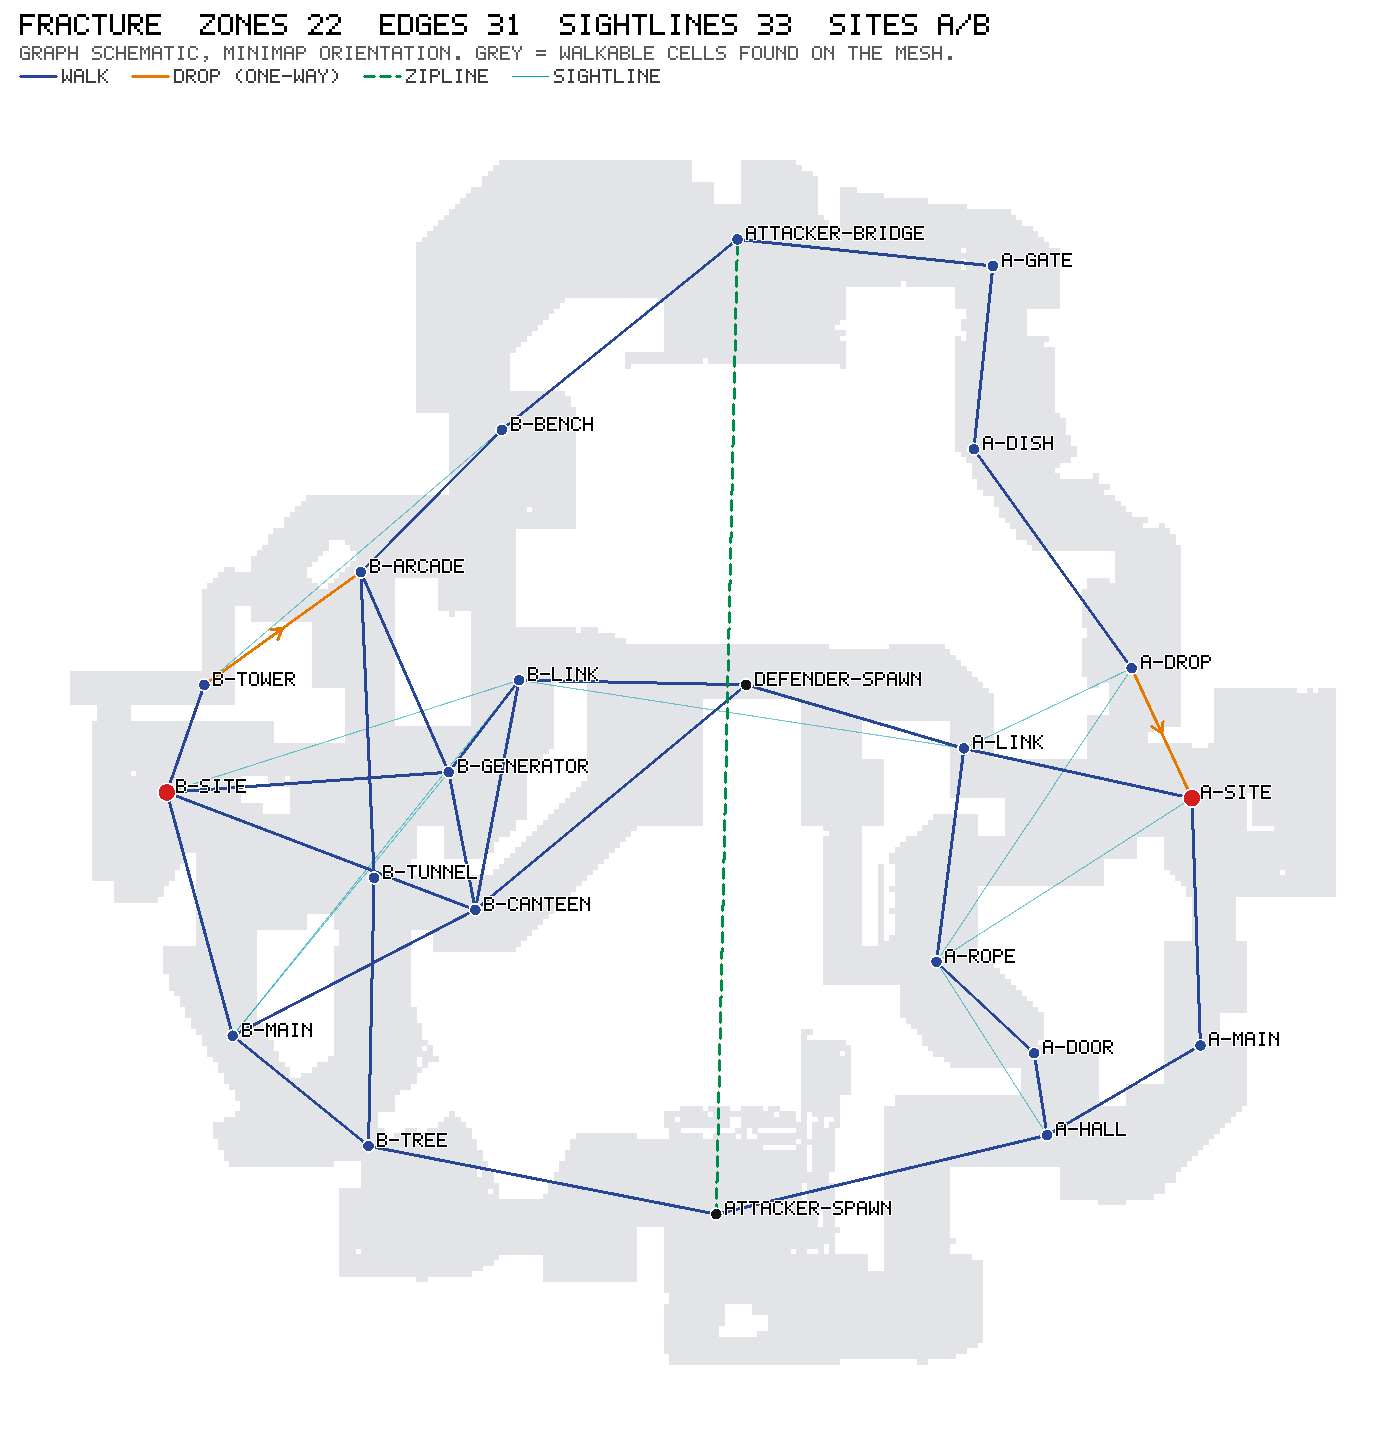
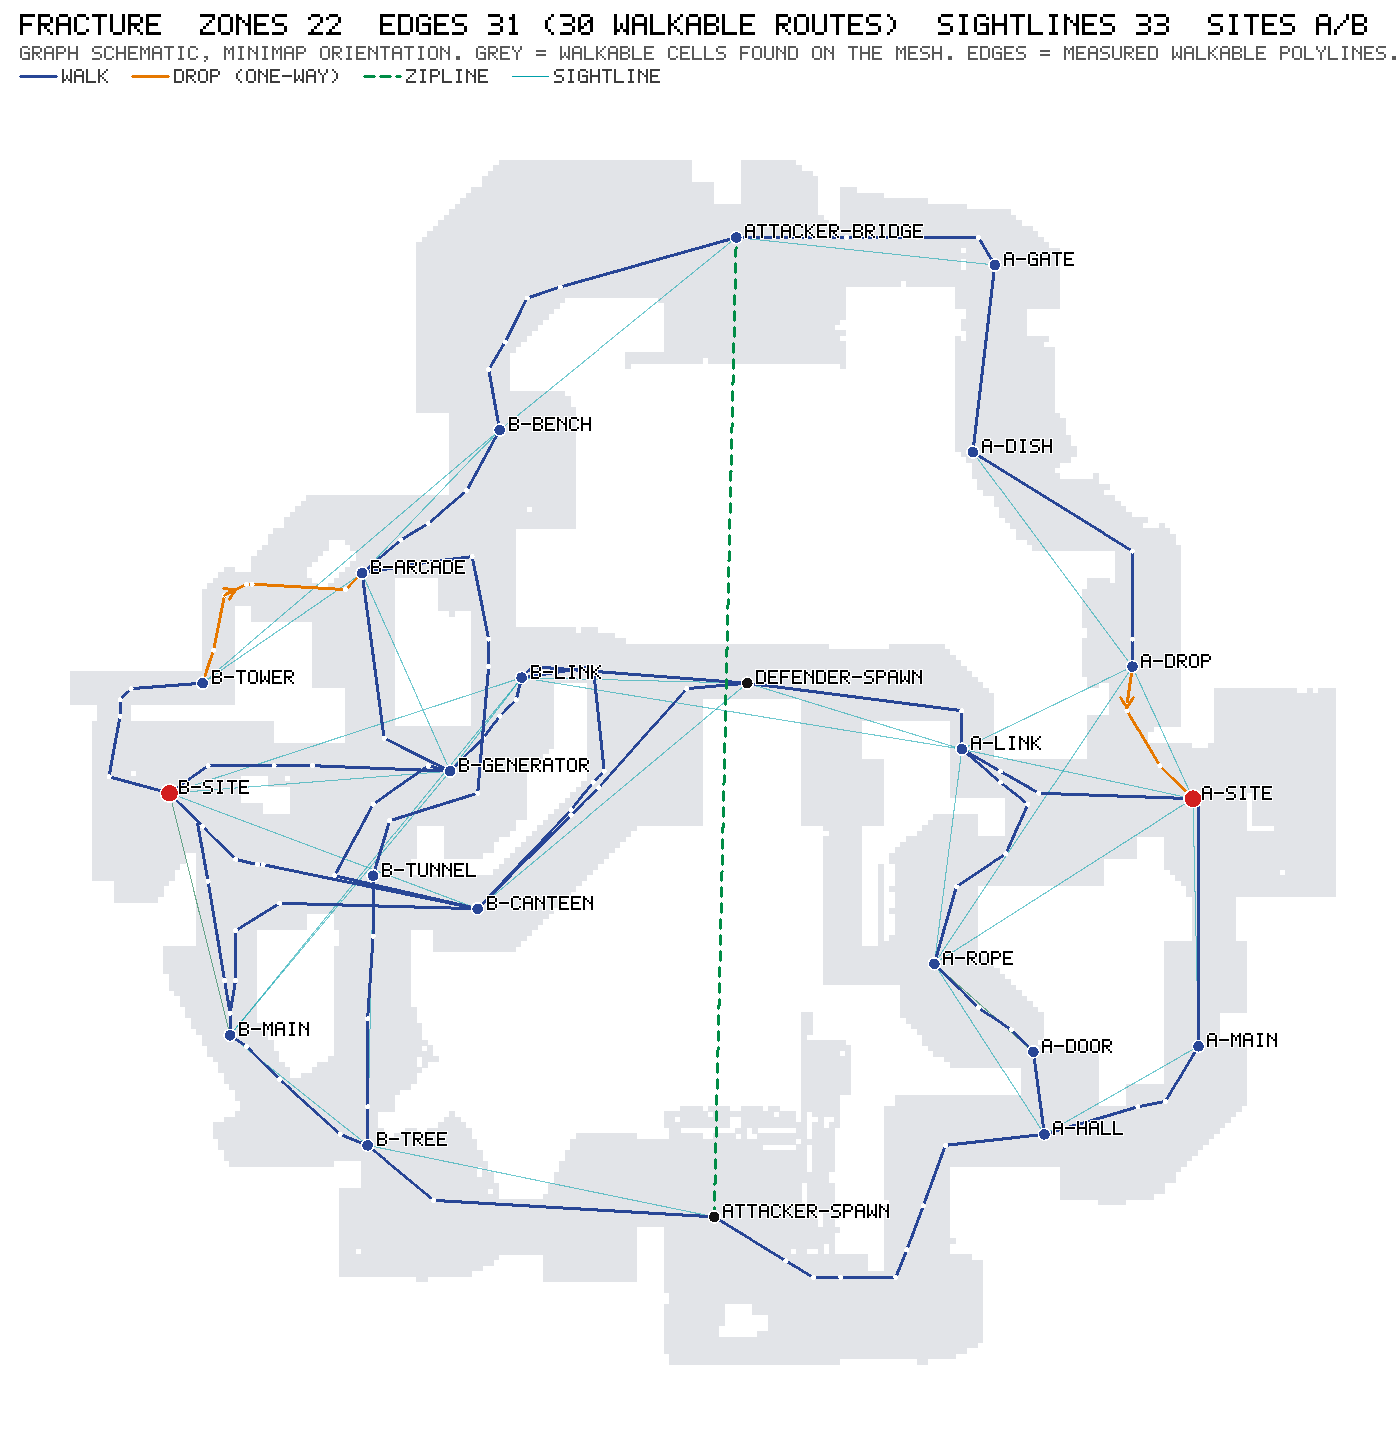
docs(spatial): route schematics for all eleven maps, MAP_ROUTES report (validation pending)

diff --git a/tools/map-mesh/pipeline/render_map.py b/tools/map-mesh/pipeline/render_map.py
@@ -29,6 +29,7 @@ def main():
     ap.add_argument("--derived", default="")
     ap.add_argument("--out", default="")
     ap.add_argument("--size", type=int, default=1400)
+    ap.add_argument("--no-sightlines", action="store_true")
     a = ap.parse_args()
     d = os.path.join(ROOT, "datasets", "spatial", a.map)
     nav = json.load(open(os.path.join(d, f"{a.map}.navgraph.json")))
@@ -37,7 +38,8 @@ def main():
     def mm(gx, gy):                      # game uu -> minimap [0,1] (axis-swapped, as the engine does)
         return gy * t["xMultiplier"] + t["xScalarToAdd"], gx * t["yMultiplier"] + t["yScalarToAdd"]
 
-    zp = {z["id"]: mm(z["position"]["x"], z["position"]["y"]) for z in nav["zones"]}
+    # a zone is drawn where a player stands in it: its walkable anchor (else the callout)
+    zp = {z["id"]: mm(z.get("anchor", z["position"])["x"], z.get("anchor", z["position"])["y"]) for z in nav["zones"]}
     fp = None
     fpath = os.path.join(a.derived, "footprint.npz") if a.derived else ""
     if fpath and os.path.exists(fpath):
@@ -61,18 +63,36 @@ def main():
     if fp:
         px = max(1, int(np.ceil(fp[2] * 100.0 * abs(t["xMultiplier"]) * sc)))
         c.cells(X(fp[0]).astype(int), Y(fp[1]).astype(int), px, (226, 228, 232))
-    for s in nav["sightlines"]:
+    for s in ([] if a.no_sightlines else nav["sightlines"]):
         (ax, ay), (bx, by) = zp[s["a"]], zp[s["b"]]
         c.line(X(ax), Y(ay), X(bx), Y(by), (0, 160, 170) if s["smokeable"] else (0, 110, 60), 1.0, alpha=0.55)
+    def draw_route(route, color, one_way):
+        pts = [mm(w[0], w[1]) for w in route["waypoints"]]
+        for (px0, py0), (px1, py1) in zip(pts[:-1], pts[1:]):
+            c.line(X(px0), Y(py0), X(px1), Y(py1), color, 3.0)
+        for (px0, py0) in pts[1:-1]:
+            c.disc(X(px0), Y(py0), 2.5, (255, 255, 255))
+        if one_way and len(pts) >= 2:
+            k = len(pts) // 2
+            (px0, py0), (px1, py1) = pts[k - 1], pts[k]
+            c.arrow(X(px0), Y(py0), (X(px0) + X(px1)) / 2, (Y(py0) + Y(py1)) / 2, color, 3.0, head=12)
+
     for e in nav["edges"]:
         (ax, ay), (bx, by) = zp[e["from"]], zp[e["to"]]
-        color, dash = EDGE_STYLE.get(e.get("kind", "walk"), EDGE_STYLE["walk"])
-        if e["bidirectional"]:
-            c.line(X(ax), Y(ay), X(bx), Y(by), color, 3.0, dash=dash)
-        else:
-            mx, my = (X(ax) + X(bx)) / 2, (Y(ay) + Y(by)) / 2
-            c.line(X(ax), Y(ay), X(bx), Y(by), color, 3.0, dash=dash)
-            c.arrow(X(ax), Y(ay), mx, my, color, 3.0, head=12)
+        kind = e.get("kind", "walk")
+        color, dash = EDGE_STYLE.get(kind, EDGE_STYLE["walk"])
+        if e.get("route"):
+            # the measured walkable polyline; a different way back (one-way drop) in orange
+            if e.get("routeReverse"):
+                draw_route(e["routeReverse"], EDGE_STYLE["drop"][0], True)
+            draw_route(e["route"], color, not e["bidirectional"] or bool(e.get("routeReverse")))
+            continue
+        # no walkable route: a flagged straight segment
+        if kind == "walk":
+            color, dash = EDGE_STYLE["approx-link"]
+        c.line(X(ax), Y(ay), X(bx), Y(by), color, 3.0, dash=dash)
+        if not e["bidirectional"]:
+            c.arrow(X(ax), Y(ay), (X(ax) + X(bx)) / 2, (Y(ay) + Y(by)) / 2, color, 3.0, head=12)
     for z in nav["zones"]:
         px_, py_ = X(zp[z["id"]][0]), Y(zp[z["id"]][1])
         c.disc(px_, py_, 9 if z["zoneType"] == "site" else 6, ZONE_COLOR.get(z["zoneType"], (40, 70, 150)))
@@ -81,14 +101,23 @@ def main():
         px_, py_ = X(zp[z["id"]][0]), Y(zp[z["id"]][1])
         c.text(px_ + 10, py_ - 12, z["id"], (0, 0, 0), 2, halo=(255, 255, 255))
 
-    kinds = nav.get("dataQuality", {}).get("edgeKinds", {})
-    c.text(20, 14, f"{a.map}  zones {len(nav['zones'])}  edges {len(nav['edges'])}  sightlines {len(nav['sightlines'])}  sites {'/'.join(nav.get('sites', []))}", (0, 0, 0), 3)
-    c.text(20, 46, "graph schematic, minimap orientation. grey = walkable cells found on the mesh.", (90, 90, 90), 2)
+    kinds = {}
+    for e in nav["edges"]:
+        k = e.get("kind", "walk")
+        if not e.get("route") and k == "walk":
+            k = "approx-link"
+        kinds[k] = kinds.get(k, 0) + 1
+    if any(e.get("routeReverse") for e in nav["edges"]):
+        kinds["drop"] = kinds.get("drop", 0) + 1
+    routed = sum(1 for e in nav["edges"] if e.get("route"))
+    sites = nav.get("sites") or sorted(z["superRegion"] for z in nav["zones"] if z["zoneType"] == "site")
+    c.text(20, 14, f"{a.map}  zones {len(nav['zones'])}  edges {len(nav['edges'])} ({routed} walkable routes)  sightlines {len(nav['sightlines'])}  sites {'/'.join(sites)}", (0, 0, 0), 3)
+    c.text(20, 46, "graph schematic, minimap orientation. grey = walkable cells found on the mesh. edges = measured walkable polylines.", (90, 90, 90), 2)
     lx = 20
     for label, (color, dash) in [("walk", EDGE_STYLE["walk"]), ("drop (one-way)", EDGE_STYLE["drop"]),
                                  ("teleporter", EDGE_STYLE["teleporter"]), ("zipline", EDGE_STYLE["zipline"]),
-                                 ("approx-link", EDGE_STYLE["approx-link"]), ("sightline", ((0, 160, 170), None))]:
-        key = label.split(" ")[0]
+                                 ("straight (no route)", EDGE_STYLE["approx-link"]), ("sightline", ((0, 160, 170), None))]:
+        key = {"straight": "approx-link"}.get(label.split(" ")[0], label.split(" ")[0])
         if key in ("teleporter", "zipline", "approx-link", "drop") and not kinds.get(key):
             continue
         c.line(lx, 76, lx + 36, 76, color, 1.0 if key == "sightline" else 3.0, dash=dash)

diff --git a/tools/map-mesh/pipeline/route_map.py b/tools/map-mesh/pipeline/route_map.py
@@ -339,6 +339,13 @@ def main():
                "nx": int(c.vox.nx), "ny": int(c.vox.ny),
                "bitsBase64": base64.b64encode(np.packbits(mask.ravel()).tobytes()).decode()},
               open(os.path.join(a.derived, "walkable.json"), "w"))
+    # silhouette for the schematic PNG (outside the repo): cells reachable on foot or by a drop
+    # from any zone anchor
+    _, owner = MM.G.dijkstra((grid.walk, grid.drop), {n: i for i, n in enumerate(node_of.values())}, grid.n)
+    reach = owner >= 0
+    fmask = np.zeros((c.vox.nx, c.vox.ny), dtype=np.uint8)
+    fmask[grid.ix[reach], grid.iy[reach]] = 1
+    np.savez_compressed(os.path.join(a.derived, "footprint.npz"), mask=fmask, origin=c.lo[:2], cell=MM.P["cell"])
     print(f"[routes] {mp}: {n_route}/{len(out_edges)} edges with a walkable route, {n_flag} flagged straight "
           f"({time.time() - t0:.0f} s)", flush=True)
     for r in out_edges:

diff --git a/docs/research/MAP_ROUTES.md b/docs/research/MAP_ROUTES.md
@@ -1,0 +1,221 @@
+# PROJECT V — Walkable routes: players move along the real map (MAP_ROUTES.md)
+
+**Date:** 2026-11-19 · **Branch:** `claude/maps-data-df31bb` · builds on `docs/research/MAPS_DATA.md`.
+
+**Problem.** Movement was zone-to-zone: a player sat on a zone centre for the *straight-line* time to the next
+centre, then jumped there. Viewers interpolated between centres in a straight line, so players were drawn
+walking through walls, and travel time ignored the real path.
+
+**Now.** Every navgraph edge carries a **walkable polyline** measured on the map geometry. The simulator takes
+the route's time for the edge and records a track position that moves continuously along the polyline.
+
+---
+
+## 1. Result per map
+
+| Map | Edges | With walkable route | Flagged straight | Edges with a different way back | Route ÷ straight (median / max) | Waypoints per route | Flagged straight edges |
+|---|---|---|---|---|---|---|---|
+| **Ascent** | 32 | **32** | 0 | 7 | 1.20 / 6.12 | 7.6 | — |
+| Abyss | 33 | 31 | 2 | 1 | 1.18 / 4.77 | 5.1 | a-security→a-secret, b-nest→b-danger |
+| Bind | 34 | 32 | 2 | 1 | 1.15 / 2.39 | 4.5 | a-teleporter→b-exit, b-teleporter→a-exit |
+| Breeze | 39 | 39 | 0 | 1 | 1.19 / 2.55 | 5.9 | — |
+| Fracture | 31 | 30 | 1 | 0 | 1.06 / 2.27 | 4.9 | attacker-spawn→attacker-bridge |
+| Haven | 30 | 29 | 1 | 1 | 1.13 / 2.53 | 5.5 | b-back→b-site |
+| Icebox | 41 | 40 | 1 | 2 | 1.19 / 2.48 | 5.7 | a-pipes→a-nest |
+| Lotus | 40 | 40 | 0 | 2 | 1.14 / 10.92 | 4.9 | — |
+| Pearl | 36 | 31 | 5 | 2 | 1.18 / 2.94 | 6.0 | mid-shops→b-club, a-main→a-link, mid-doors→b-link, mid-top→mid-plaza, a-flowers→defender-water |
+| Split | 28 | 27 | 1 | 0 | 1.14 / 1.59 | 5.2 | a-ramps→mid-vent |
+| Sunset | 25 | 25 | 0 | 0 | 1.27 / 2.73 | 5.0 | — |
+| **Total** | **369** | **356** | **13** | 17 | | | |
+
+Why 13 edges stay straight (each is flagged in the navgraph: `edge.routeStatus = "straight (…)"`, and listed in
+`navgraph.routes.edgesFlaggedStraight`):
+
+- **3 special traversals** — Bind's two teleporters and Fracture's zipline: nobody walks them.
+- **9 approx-links** — the zones the walk grid could not connect (`MAPS_DATA.md` §4): Abyss 2, Haven 1 (B Site),
+  Icebox 1 (A Nest, rope-only), Pearl 4, Split 1.
+- **1 stacked pair** — Pearl `mid-shops` / `b-club` share one x,y on different floors and snap to the same cell.
+
+Two Lotus approx-links (`a-drop↔a-top`, `b-site↔b-upper`) turned out to have a walkable route (one way a drop,
+the other a long walk — hence the 10.9× ratio) and are now ordinary measured edges.
+
+Pictures: `docs/research/maps/<map>.png` — the edge polylines over the walkable footprint (schematic only;
+Ascent's is new). Orange = the way back where it differs (a one-way drop).
+
+## 2. How a route is found and validated
+
+`tools/map-mesh/pipeline/route_map.py` (needs the geometry, which stays outside the repo):
+
+1. The same 2.5D walk grid as the edge measurement (0.5 m cells; a cell is standable when its floor is walkable
+   and nothing solid occupies 0.5–1.5 m above it; cells link on walkable slope; bigger steps down are one-way
+   drops). This is the "2D occupancy grid from the mesh" approach — the Recast NavMesh (≈27 % connected on
+   Ascent) is not used.
+2. **A\*** from one zone's anchor to the other's. Steps next to a wall cost more (×2.6 / ×1.7 / ×1.25 at 0 / 1 /
+   2 cells of clearance), so routes run down the middle of a corridor where there is room.
+3. **String-pulling** to a short polyline that never reduces wall clearance below what the path had, never
+   crosses a drop, and keeps a waypoint wherever the floor leaves the straight chord by more than 0.3 m
+   (stairs, ramps).
+4. **Validation** — every segment is re-walked with an exact grid traversal: *every* cell the segment touches
+   must be a standable cell walk-linked to the previous one. (A first version sampled every 0.2 m and let a
+   segment clip a blocked cell's corner; the exact traversal fixed that.) A polyline that fails would be
+   dropped and the edge flagged — none did.
+5. **Direction** — a bidirectional edge gets one polyline, walked both ways, when the walk-only path is within
+   10 % of the best path each way. Otherwise it gets `route` (from→to) and `routeReverse` (to→from): on Ascent
+   `a-site → a-rafters` is a 97 m walk around, the way back a 19 m drop.
+
+Only the polylines are committed (`datasets/spatial/<map>/mesh/<map>-routes.json`, merged into the navgraph by
+`tools/map-processor/apply_routes.py` / `build_map.py`). The grid is written to `<derived>/walkable.json`
+outside the repo for the optional local tests (§5).
+
+## 3. Data: what an edge and a zone now carry
+
+```jsonc
+// zone
+"position": { "x": 6153.6, "y": -6626.2, "z": 500 },   // callout — the zone's LOGICAL centre, unchanged
+"anchor":   { "x": 6140,   "y": -6620,   "z": 500 },   // walkable standing point, z = measured floor
+
+// edge
+"route": { "waypoints": [[x,y,z], …],                  // game uu, from -> to, both anchors included
+           "lengthMeters": 24.5, "runTimeMs": 3630, "walkTimeMs": 7206, "drops": 0,
+           "provenance": "measured-on-mesh (walkable route)" },
+"routeReverse": { … },                                 // only when the way back differs
+"distanceMeters": 24.5, "runTimeMs": 3630, …,          // = the route's
+"beforeRoute": { "distanceMeters": 18.86, "runTimeMs": 2793, "provenance": "pv5-measured (medium)" }
+```
+
+**Which travel time wins.** The walkable route. When an edge has a route its `distanceMeters` / `runTimeMs` /
+`walkTimeMs` are *replaced* by the route length at the map's movement speeds (6.75 / 3.4 m/s); the previous
+value is kept under `beforeRoute`. An edge without a route keeps its own time (a teleporter's fixed 1.5 s, an
+approx-link's straight-line lower bound). Pathfinding and movement now read the same number — before, A\* chose
+routes by the edge's measured time while movement used the straight line between centres.
+
+Ascent's navgraph changed: 22 zone anchors added, 32 edges re-timed (table in §4). Zone ids, positions,
+sightlines and sound links are untouched.
+
+## 4. Engine
+
+**`@pv/spatial-engine`** (additive):
+
+| API | Returns |
+|---|---|
+| `standPosition(zoneId)` | the zone's walkable anchor (else its callout) |
+| `edgeTraversal(from, to)` | for two adjacent zones: `{ waypoints, lengthUnits, runTimeMs, walkTimeMs, kind, walkable }` in that direction (reversed polyline or `routeReverse` as appropriate); `null` if not adjacent |
+| `pointAlongEdge(from, to, fraction)` | `{ position, heading }` that far along the polyline |
+| `pointAlongPolyline(points, fraction)` | the same for any polyline |
+
+The A\* heuristic (straight line between callouts) is now scaled by the worst edge so it can never overestimate;
+a test compares A\* with an exhaustive search on all eleven maps.
+
+**`packages/round-simulator/src/simulator.ts`** (movement only):
+
+- `edgeTravelMs()` — an edge takes the map edge's time (its route's). `stepMovement` and `transitOf` use it; the
+  straight line between centres is only the fallback for two zones with no edge. Fire / slow-field / doorway
+  logic is unchanged — it works on `edgeProgressMs` against the edge time, as before.
+- `trackPosition()` — the recorded track frame (`config.recordTracks`) is the point `edgeProgressMs / edgeMs`
+  along the polyline while travelling, the zone's anchor while standing, and stays where a player fell.
+
+**Deviation from the brief, on purpose.** `p.position` and `p.facing` were **not** made continuous. Every
+consumer derives a player's zone from its position by nearest-zone lookup — perception (`vision.ts`,
+`hearing.ts`), `view.ts`, the round-simulator policy, and ~25 call sites in `team-engine/policy.ts` — and combat
+range is the distance between positions. A position part-way along a polyline is often nearest to a *third*
+zone, so making it continuous would silently change who sees and fights whom. Keeping the logical position on
+the zone centre is what "perception and LoS stay zone-level" requires; the continuous position lives in the
+track. Facing stays "toward the next zone" for the same reason (it feeds the FOV cone); a viewer can take the
+heading from successive track points or `pointAlongEdge().heading`.
+
+**For the desktop / match-runner owners:** tracks exist only with `recordTracks: true`. `match-runner` does not
+set it today (`match.ts` l.471 passes `recordPerception` and the tuning only), so `runMatch` rounds carry no
+track. Add `recordTracks: true` there to get `out.round.tracks` — one frame per 100 ms tick, `{id, side, x, y,
+z, alive}` in game uu, drawable through the existing minimap transform. Perception snapshots still hold the
+logical (zone-centre) positions.
+
+### Ascent edges, before → after
+
+Straight = distance between callouts (what movement used). Old measured = the edge's previous
+`distanceMeters` (what pathfinding used). Time = run time, straight line → route.
+
+| Edge | Straight (m) | Old measured (m) | Route (m) | Time |
+|---|---|---|---|---|
+| attacker-spawn → a-lobby | 53.9 | 63.1 | 60.9 | 8.0 → 9.0 s |
+| attacker-spawn → b-lobby | 21.2 | 29.5 | 20.5 | 3.1 → 3.0 s |
+| attacker-spawn → mid-top | 34.7 | 38.6 | 51.3 | 5.1 → 7.6 s |
+| a-lobby → a-main | 18.9 | 35.7 | 24.1 | 2.8 → 3.6 s |
+| a-main → a-tree | 18.2 | 26.6 | 34.7 | 2.7 → 5.1 s |
+| a-main → a-window | 37.3 | 46.4 | 100.3 / back 60.2 | 5.5 → 14.9 s |
+| a-main → a-site | 20.9 | 18.9 | 24.5 | 3.1 → 3.6 s |
+| a-tree → a-site | 22.8 | 27.8 | 24.5 | 3.4 → 3.6 s |
+| a-window → a-site | 26.5 | 41.7 | 36.0 / back 90.0 | 3.9 → 5.3 s |
+| a-site → a-wine | 22.8 | 60.8 | 29.5 | 3.4 → 4.4 s |
+| a-site → a-rafters | 15.8 | 17.1 | 97.0 / back 19.1 | 2.3 → 14.4 s |
+| a-site → a-garden | 25.6 | 44.0 | 37.0 | 3.8 → 5.5 s |
+| a-garden → mid-cubby | 24.5 | 27.1 | 28.1 | 3.6 → 4.2 s |
+| a-wine → defender-spawn | 73.8 | 129.4 | 86.5 | 10.9 → 12.8 s |
+| a-rafters → defender-spawn | 44.3 | 69.0 | 50.9 | 6.6 → 7.5 s |
+| mid-top → mid-courtyard | 29.0 | 48.0 | 34.1 | 4.3 → 5.1 s |
+| mid-courtyard → mid-catwalk | 11.9 | 17.0 | 12.8 | 1.8 → 1.9 s |
+| mid-courtyard → mid-cubby | 22.3 | 27.4 | 29.3 / back 24.6 | 3.3 → 4.3 s |
+| mid-catwalk → mid-bottom | 21.8 | 28.0 | 26.2 | 3.2 → 3.9 s |
+| mid-cubby → mid-bottom | 24.1 | 36.3 | 31.2 / back 43.4 | 3.6 → 4.6 s |
+| mid-bottom → mid-market | 14.2 | 24.3 | 14.2 | 2.1 → 2.1 s |
+| mid-bottom → mid-link | 24.2 | 28.4 | 29.5 | 3.6 → 4.4 s |
+| mid-link → b-site | 36.9 | 54.0 | 62.8 | 5.5 → 9.3 s |
+| mid-link → defender-spawn | 60.6 | 61.2 | 70.9 | 9.0 → 10.5 s |
+| mid-market → mid-pizza | 7.2 | 12.2 | 7.1 | 1.1 → 1.0 s |
+| mid-market → b-site | 34.4 | 49.8 | 39.3 | 5.1 → 5.8 s |
+| mid-pizza → b-main | 40.4 | 52.5 | 48.5 / back 56.5 | 6.0 → 7.2 s |
+| b-lobby → b-main | 44.8 | 68.0 | 52.3 | 6.6 → 7.7 s |
+| b-main → b-site | 17.5 | 19.2 | 26.0 | 2.6 → 3.9 s |
+| b-site → b-boathouse | 21.5 | 21.5 | 41.3 | 3.2 → 6.1 s |
+| b-boathouse → b-main | 31.5 | 31.6 | 62.4 / back 50.4 | 4.7 → 9.2 s |
+| b-site → defender-spawn | 48.6 | 55.1 | 51.4 | 7.2 → 7.6 s |
+| **Sum over the 32 edges** | **952** | **1310** | **1345** | **+41 % walking time vs the straight line** |
+
+The Ascent *graph* is still the hand-authored one. Three of its edges join zones that are not really neighbours,
+so their routes are long detours rather than errors of the router: `a-site → a-rafters` (no way up from the
+site: 97 m around, 19 m back down), `a-main → a-window` (100 m) and `a-wine → defender-spawn` (86 m — Wine sits
+beside A Main). They are walkable and now cost what they really cost; re-authoring Ascent's adjacency from the
+geometry (`MAPS_DATA.md` §8.9) is a separate decision.
+
+## 5. Verification
+
+| Check | Where | Result |
+|---|---|---|
+| Every Ascent edge has a walkable route | `round-simulator/test/route-movement.test.ts` | 32/32 |
+| Every track position of a 24-round Ascent match lies on an edge polyline or a zone anchor (≤ 1 uu) | same | pass |
+| Players never move further in one tick than a run step (no jumps) | same | pass |
+| Tracks leave the straight centre-to-centre lines by > 3 m | same | pass |
+| Same seed → same match, tick for tick; different seed → different | same | pass |
+| An edge takes its route's time, not the straight line's | same | pass |
+| Per map: routes start/end on anchors; length, run and walk time consistent; flagged edges are only special / approx / stacked; each direction's traversal correct | `spatial-engine/test/routes.test.ts` | pass ×11 |
+| A\* equals exhaustive search on every map | same | pass ×11 |
+| **Local geometry only** (`PV_MAPS_DERIVED=<derived dir>`): every routed polyline, sampled every 0.2 m, and every track position stand on a walkable grid cell | both files | pass on this machine; **skipped** where the grid is absent (it is not committed) |
+
+The 24-round match in the test uses the simulator's scripted policy (attackers alternating A and B), because
+`match-runner` records no tracks. The "on a walkable cell" property does not depend on the policy: a track
+position is always a point of an edge polyline or a zone anchor, and all of those are checked against the grid
+for every edge in both directions.
+
+Four existing tests were updated because they encoded the old model, not because behaviour regressed:
+`stall-utility` (travel time constant: straight line → the edge's route), `contract-supplement` and `dash-round`
+(track positions are anchors, not callouts), `spatial-engine/pathfinding` (the spawn short-cut example moved
+from A Site→B Site to A Lobby→B Lobby, where it still exists) and `round` (seed pair 1/99 → 1/2: with the new
+timings seeds 1 and 99 win the same six duels in that scripted scene).
+
+`perf.test` (1,000 rounds < 60 s wall clock) now runs at ≈49 ms/round here against ≈43 ms before: rounds last
+longer in simulated time. It passed alone and in the suite, and failed once at 60.5 s while the machine's load
+average was above 45.
+
+## 6. 160-match validation (Ascent)
+
+See the table at the end of this file (§7), filled from `reports/` after both runs.
+
+## 7. Reproduce
+
+```bash
+PY=<python with numpy>; D=<derived dir outside the repo>
+$PY -I tools/map-mesh/pipeline/route_map.py --map ascent --derived $D/ascent    # mesh/ascent-routes.json
+python3 -I tools/map-processor/apply_routes.py ascent                           # merge into ascent.navgraph.json
+python3 -I tools/map-processor/build_map.py --all                               # the ten other maps (merges routes)
+$PY -I tools/map-mesh/pipeline/render_map.py --map ascent --derived $D/ascent   # docs/research/maps/ascent.png
+PV_MAPS_DERIVED=$D npx vitest run        # in packages/spatial-engine and packages/round-simulator
+```
